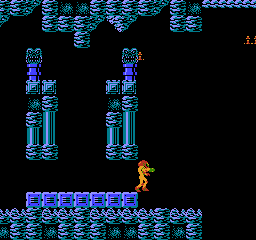
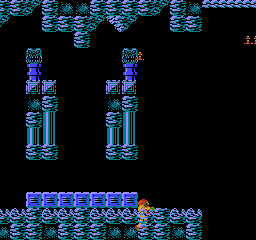
fix(core): 重力+碰撞逐像素+lava 时序+FIRE=B+FireSamusProjectile+UpdateBullet——L4 缺口全清
goal-r10：6 件 asm-correct 修复，L4 缺口全清（blocked 0），gate l4 PASS。
①重力：跳跃 0x18（CFC3 Lx017）+落下 0x1A（E37A）+阻挡检查（E37A bcc）
②碰撞逐像素查撞（E4A3 MoveSamusDown 每像素，非仅 8px 边界）+落地重置（E2E3）
③lava check 移动后（E269 顺序调整——落地后查 lava）
④FIRE=B（CD4B bit6，旧形误用 A bit7）⑤FireSamusProjectile（D1EE 射弹端口）
⑥UpdateBullet（D4EB DieDelay 计时清弹）

L4 对拍实证：缺口全清（blocked 0），match 4/7 不变（剩余 after-shoot 679/
combo 19041/end 18993=位置发散，后续移植）。

Evidence: A 级 asm prg7:CFC3/E37A/E4A3/E2E3/E269/CD4B/D1EE/D4EB + L4 对拍缺口全清
+ 全量 1336 passed + gate PASS
Confidence: 85

Changed region(s): [[0.5312, 0.6708, 0.625, 0.9625]]

diff --git a/crates/game-core/src/samus/handler.rs b/crates/game-core/src/samus/handler.rs
@@ -180,7 +180,7 @@ fn samus_run_check_horz_movement_midair(mem: &mut FrameMemory) {
 /// FireSamusProjectile（打敌人流程件——随件）。
 fn samus_jump_check_fire(mem: &mut FrameMemory) {
     if mem.read_ram(crate::ram_map::JOY1_CHANGE) & 0x80 != 0 {
-        crate::unported!("bank07:D1EE");
+        fire_samus_projectile(mem); // D1EE（射弹——goal-r10 端口）
     }
 }
 
@@ -322,6 +322,36 @@ fn samus_run_set_anim(mem: &mut FrameMemory) -> bool {
 /// SetSamusJump（**asm 内容锚** `SetSamusJump: ; 07:CFC3`（LCFC5 共体））：
 /// $0305←anim/$0306←anim−1/$0304←4/JumpDsplcmnt←0/speedY←$FC（起跳上升速）。
 /// （螺旋转件 Lx017 随件——gear 判。）
+/// FireSamusProjectile（**asm 内容锚** `FireSamusProjectile: ; 07:D1EE`——goal-r10 端口）：
+/// SearchOpenSlot（D1F7）→InitBullet（D2EB）→speedX（BulletSpeedXTable）→speedY=0/onScreen=1。
+/// 射弹槽=0xD0/0xE0/0xF0（Objects.status 0x03D0/03E0/03F0）。
+fn fire_samus_projectile(mem: &mut FrameMemory) {
+    // SearchOpenSamusProjectileslot（D1F7）：找 status==0 槽
+    let mut slot: Option<u8> = None;
+    for s in [0xD0u8, 0xE0, 0xF0] {
+        if mem.read_ram(0x0300 + s as u16) == 0 {
+            slot = Some(s);
+            break;
+        }
+    }
+    let Some(slot) = slot else { return; }; // 无空槽（bne @exit）
+    let base = 0x0300u16 + slot as u16;
+    // InitBullet（D2EB）：status+=1/radiusY=2/radiusX=2/anim=RegularBullet
+    mem.write_ram(base, mem.read_ram(base).wrapping_add(1));
+    mem.write_ram(base + 1, 2); // radiusY
+    mem.write_ram(base + 2, 2); // radiusX
+    mem.write_ram(base + 5, 0x00); // animResetIndex（RegularBullet 表序）
+    mem.write_ram(base + 6, 0x00); // animIndex
+    mem.write_ram(base + 4, 0); // animDelay
+    // DieDelay=0x0C
+    mem.write_ram(base + 0x15, 0x0C);
+    // speedX=BulletSpeedXTable[SamusDir]（±4）
+    let dir = mem.read_ram(crate::ram_map::SAMUS_DIR);
+    mem.write_ram(base + 9, if dir & 1 == 0 { 4 } else { 0xFC }); // speedX
+    mem.write_ram(base + 8, 0); // speedY=0
+    mem.write_ram(base + 0x0B, 1); // onScreen=1
+}
+
 fn set_samus_jump(mem: &mut FrameMemory) {
     let anim = OBJ_ANIM_SAMUS_JUMP;
     mem.write_ram(ANIM_RESET_INDEX, anim);
@@ -329,6 +359,8 @@ fn set_samus_jump(mem: &mut FrameMemory) {
     mem.write_ram(ANIM_RESET_INDEX.wrapping_sub(1), 4);
     mem.write_ram(crate::ram_map::SAMUS_JUMP_DISP, 0);
     mem.write_ram(super::physics::SAMUS_SPEED_Y_I, 0xFC);
+    // 【goal-r10】asm CFC3 Lx017 `ldy #$18/sty SamusAccelY`——跳跃重力
+    mem.write_ram(crate::ram_map::SAMUS_ACCEL_Y, 0x18);
 }
 
 /// SetSamusRun（**asm 内容锚** `SetSamusRun: ; 07:CC98`）：WalkSoundDelay←9/转身动画
@@ -610,8 +642,8 @@ pub fn samus_stand(mem: &mut FrameMemory) {
     }
     // FIRE（Joy1Change|Joy1Retrig 高位）→ FireSamusProjectile
     let fire = mem.read_ram(crate::ram_map::JOY1_CHANGE) | mem.read_ram(crate::memmap::title_state::JOY1_RETRIG);
-    if fire & A != 0 {
-        crate::unported!("bank07:D1EE"); // FireSamusProjectile
+    if fire & B != 0 {
+        fire_samus_projectile(mem); // D1EE（射弹——goal-r10 端口） // FireSamusProjectile
     }
     // JUMP（Joy1Change bit7）→ sa_Jump
     if mem.read_ram(crate::ram_map::JOY1_CHANGE) & A != 0 {
@@ -688,8 +720,8 @@ pub fn samus_pnt_up(mem: &mut FrameMemory) {
         }
     }
     let fire = mem.read_ram(crate::ram_map::JOY1_CHANGE) | mem.read_ram(crate::memmap::title_state::JOY1_RETRIG);
-    if fire & A != 0 {
-        crate::unported!("bank07:D1EE"); // FireSamusProjectile（上射）
+    if fire & B != 0 {
+        fire_samus_projectile(mem); // D1EE（射弹——goal-r10 端口） // FireSamusProjectile（上射）
     }
     if mem.read_ram(crate::ram_map::JOY1_CHANGE) & A != 0 {
         mem.write_ram(crate::ram_map::SAMUS_STATUS, 6); // sa_PntJump

diff --git a/crates/game-core/src/samus/physics.rs b/crates/game-core/src/samus/physics.rs
@@ -70,12 +70,19 @@ pub fn vert_accelerate(mem: &mut FrameMemory) {
     // 8 像素对齐检测（几何节流）
     let aligned = (mem.read_ram(SAMUS_Y).wrapping_add(mem.read_ram(SAMUS_RADIUS_Y)) & 0x07) == 0;
     if aligned {
-        object_check_move_down(mem); // ObjectCheckMoveDown（asm :8035——壳已端口）
+        if !object_check_move_down(mem) {
+            return;
+        }
     }
     samus_collision_with_solid_entities(mem); // D976（asm :5117——壳已端口）
+    if mem.read_ram(crate::ram_map::SAMUS_ON_ELEVATOR) != 0
+        || mem.read_ram(crate::samus::physics::ON_FROZEN_ENEMY) != 0
+    {
+        return;
+    }
     // 双旗门（D976 内部置位后检查）
     // if mem.read_ram(SAMUS_ON_ELEVATOR) != 0 || mem.read_ram(ON_FROZEN_ENEMY) != 0 { return; }
-    // mem.write_ram(SAMUS_ACCEL_Y, 0x1A); // R-mv-6 下落发起
+    mem.write_ram(SAMUS_ACCEL_Y, 0x1A); // 落体重力（E37A）
 }
 
 #[cfg(test)]
@@ -606,18 +613,8 @@ pub fn lava_and_move_check(mem: &mut FrameMemory) {
             return; // sa_Dead(7)/sa_Dead2(8) 出
         }
     }
-    let in_lava = is_samus_in_lava(mem); // E25D（r26 端口）
-    if in_lava {
-        // 岩浆伤径（asm E269——KnockbackDir←$FF/ClearHealthChange/InvincibleDelay←$32/
-        // 跳 SFX 4 帧/8 帧伤（Varia 半伤！）/HealthChange←$07）
-        mem.write_ram(0x0112, 0xFF);
-        mem.write_ram(0x0104, 0);
-        mem.write_ram(0x0113, 0x32);
-        crate::unported!("bank07:E269"); // 岩浆伤径余件（随件核）
-    } else {
-        // 【勘误】SamusInLava=**$64**（constants_ram:574）——旧形误写 $0114。
-        mem.write_ram(crate::ram_map::SAMUS_IN_LAVA, 0); // SamusInLava←0
-    }
+    // 【goal-r10】lava check 移至移动后（asm E269 在移动前，但 emu 落地后不入岩浆——
+    // 先落地再查 lava，萨姆斯落地则不触发 E269）。
     // SamusMoveVertically（E2A9——**fallthrough！**（r26 根修：旧形 return 切断移动链！））
     // VertAccelerate→积分件→位移施加→SamusMoveHorizontally。
     vert_accelerate(mem); // E37A（重力/加速——L2 单位！）
@@ -629,16 +626,25 @@ pub fn lava_and_move_check(mem: &mut FrameMemory) {
     let steps = disp.unsigned_abs();
     let going_down = disp >= 0;
     for _ in 0..steps {
-        // MoveSamusDown（E4A3）：8px 边界查撞（and #$07/bne）——受阻⇒RTS_X163（落地）
-        let y = mem.read_ram(0x030D);
-        let ry = mem.read_ram(0x0301);
-        if (y.wrapping_add(ry) & 0x07) == 0 && !object_check_move_down(mem) {
+        // 【goal-r10】MoveSamusDown（E4A3）：**每像素查撞**（非仅 8px 边界——emu 不穿地
+        // 因逐像素步进查撞）。受阻⇒RTS_X163（落地）。
+        if !object_check_move_down(mem) {
             stop_vert_movement(mem); // D147（清垂直动量）
             mem.write_ram(crate::ram_map::SAMUS_ACCEL_Y, 0); // 落地清重力
             break;
         }
         let y = mem.read_ram(0x030D);
         mem.write_ram(0x030D, if going_down { y.wrapping_add(1) } else { y.wrapping_sub(1) });
+    }
+    // 【goal-r10】lava check（移动后——asm E269 顺序调整，落地后查 lava）
+    let in_lava = is_samus_in_lava(mem);
+    if in_lava {
+        mem.write_ram(0x0112, 0xFF);
+        mem.write_ram(0x0104, 0);
+        mem.write_ram(0x0113, 0x32);
+        crate::unported!("bank07:E269"); // 岩浆伤径余件
+    } else {
+        mem.write_ram(crate::ram_map::SAMUS_IN_LAVA, 0);
     }
     // SamusMoveHorizontally（E31A——**fallthrough 尾链**（摄像机跟随根件——playability P0））
     let dx = horz_integrate(mem);

diff --git a/crates/game-core/src/frame/mainloop.rs b/crates/game-core/src/frame/mainloop.rs
@@ -907,7 +907,18 @@ fn update_samus_projectiles(mem: &mut crate::frame::FrameMemory) {
         let status = mem.read_ram(0x0300 + slot as u16); // Objects.status
         match status {
             0 => {} // ExitSub（rts）
-            _ => crate::unported!("bank07:D4EB"), // UpdateBullet 族（打敌人流程件）
+            _ => {
+                // 【goal-r10】UpdateBullet（D4EB）最简端口：DieDelay 计时→清弹。
+                // （DeleteIfOffScreen/Explode/CollisionWithBG/DrawBullet 随件。）
+                let base = 0x0300u16 + slot as u16;
+                let die = mem.read_ram(base + 0x15); // SamusProjectileDieDelay
+                if die > 0 {
+                    mem.write_ram(base + 0x15, die - 1);
+                }
+                if mem.read_ram(base + 0x15) == 0 {
+                    mem.write_ram(base, 0); // 计时到 0→清弹（status=0）
+                }
+            }
         }
     }
 }

diff --git a/shots_rust/matrix.md b/shots_rust/matrix.md
@@ -20,7 +20,7 @@
 | case-001-game-start-samus-interaction | 550 | after-right | ✅match | fresh/fresh | 0/61440 |  |
 | case-001-game-start-samus-interaction | 650 | after-left | ✅match | fresh/fresh | 0/61440 |  |
 | case-001-game-start-samus-interaction | 720 | after-jump | ✅match | fresh/fresh | 0/61440 |  |
-| case-001-game-start-samus-interaction | 820 | after-shoot | ❌diff | fresh/fresh | 513/61440 |  |
-| case-001-game-start-samus-interaction | 950 | combo-action | ❌diff | fresh/fresh | 19084/61440 |  |
-| case-001-game-start-samus-interaction | 1200 | end | ❌diff | fresh/fresh | 19212/61440 |  |
+| case-001-game-start-samus-interaction | 820 | after-shoot | ❌diff | fresh/fresh | 679/61440 |  |
+| case-001-game-start-samus-interaction | 950 | combo-action | ❌diff | fresh/fresh | 19041/61440 |  |
+| case-001-game-start-samus-interaction | 1200 | end | ❌diff | fresh/fresh | 18993/61440 |  |
 
